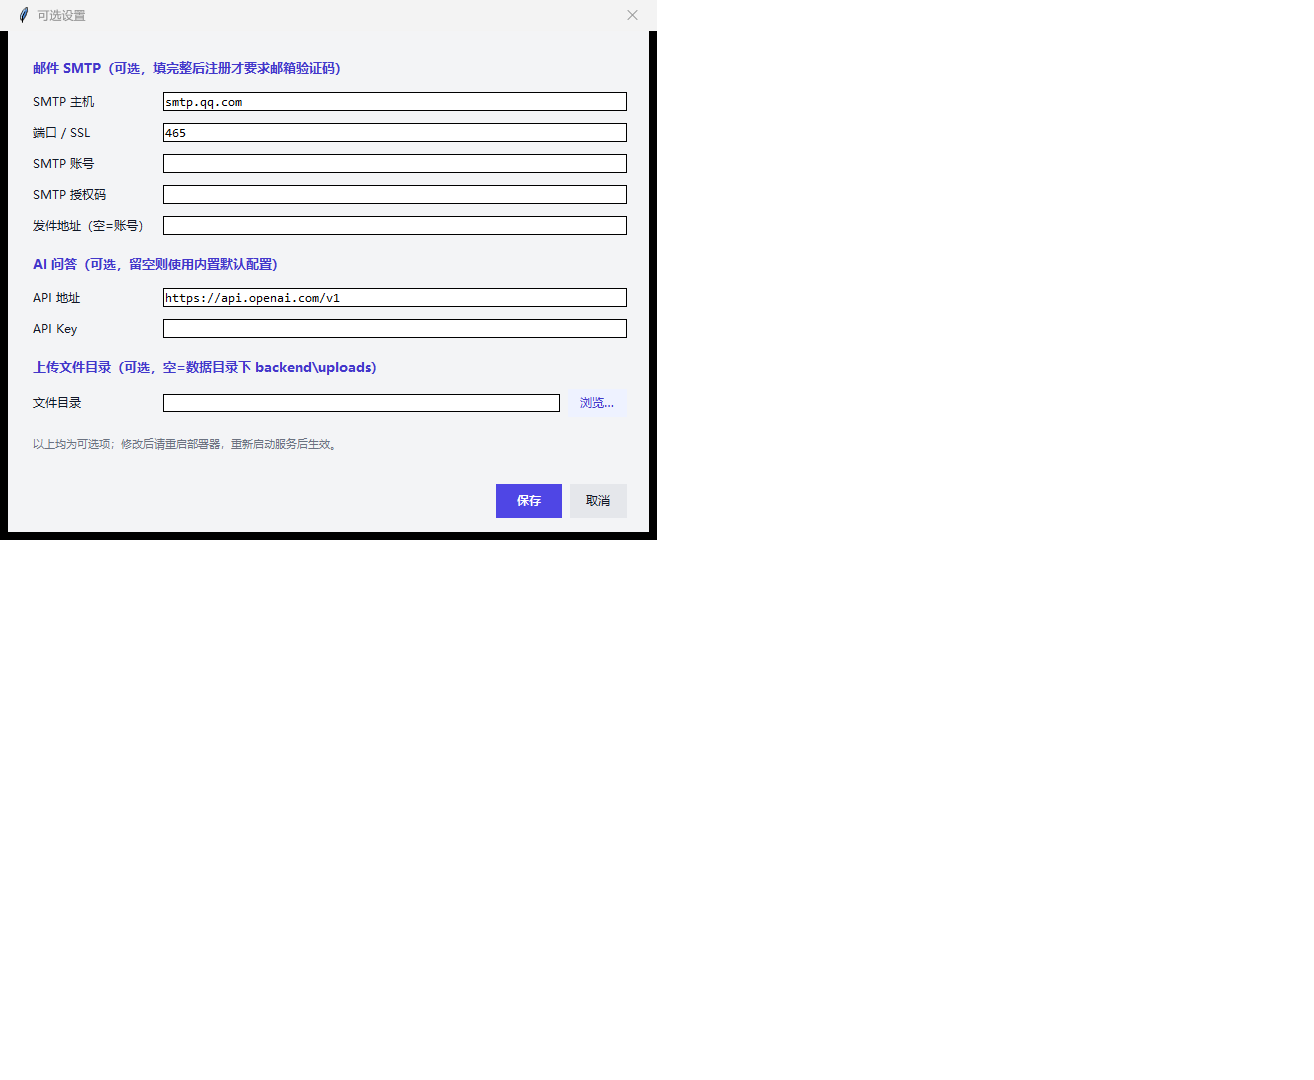
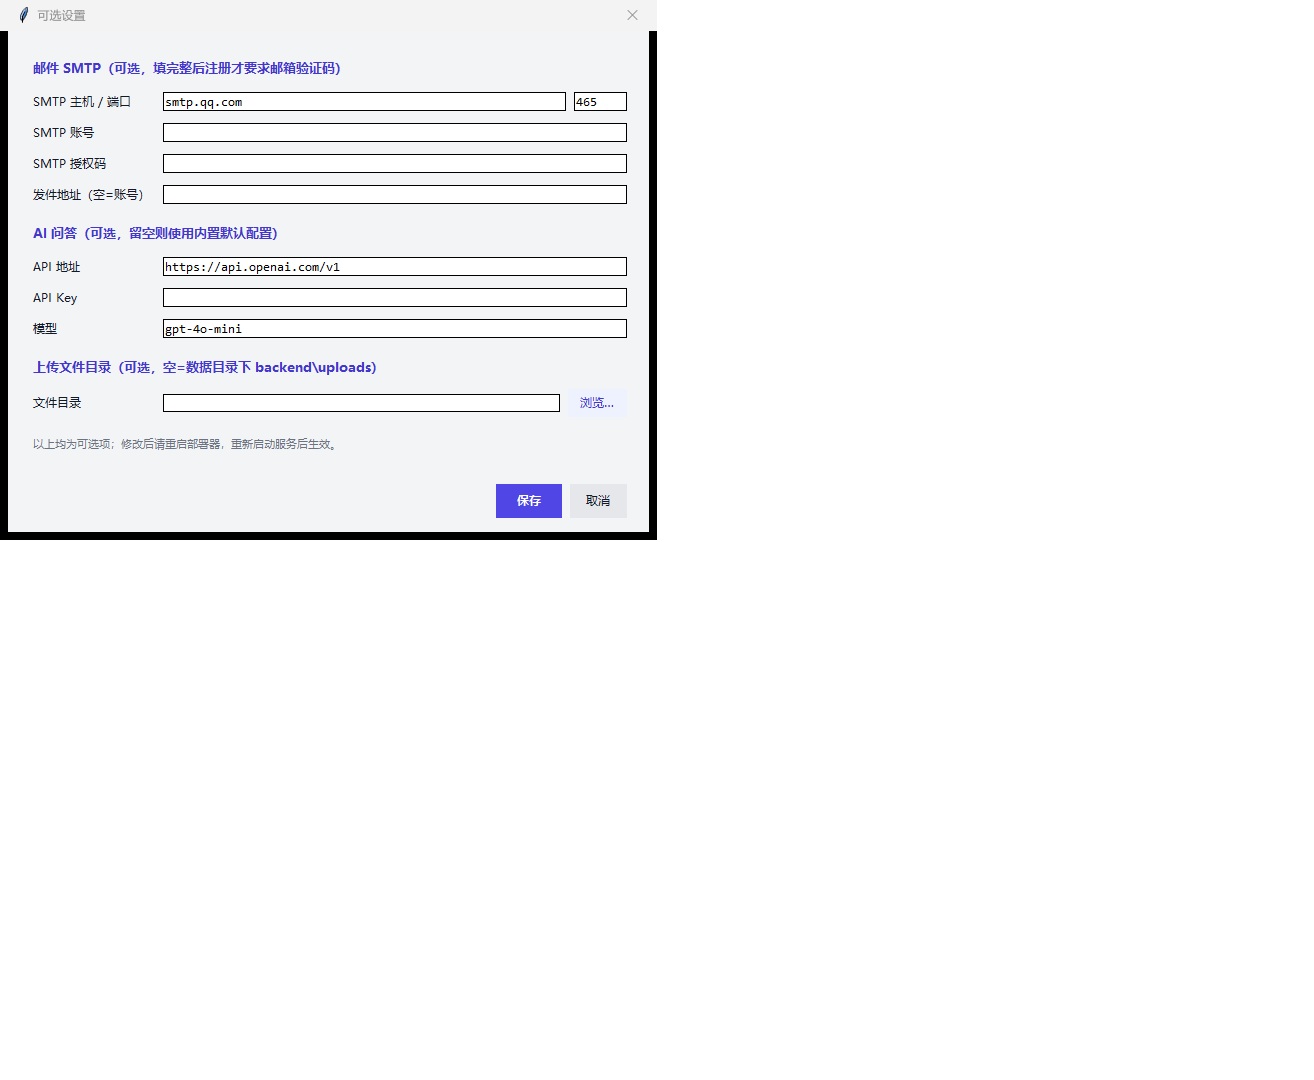
feat(deployer): AI 模型可配置，补充 DeepSeek Flash 文档
- Windows 部署器设置新增「模型」字段，写入 AI_MODEL
- SMTP 主机/端口合并一行，设置窗口仍适配 1080p
- README 增加 DeepSeek Flash：API 地址、模型名、超时说明
- 部署器版本 2.1.17

Changed region(s): [[0.0312, 0.0917, 0.2496, 0.3056]]

diff --git a/deployer/windows/win_deployer.py b/deployer/windows/win_deployer.py
@@ -16,7 +16,7 @@
     ChemLearnWindows.exe --reset            重新部署（清空用户数据，恢复内置题库）
     ChemLearnWindows.exe --console          纯命令行模式（排障用，窗口里能看到日志）
 """
-VERSION = "2.1.16"
+VERSION = "2.1.17"
 APP_NAME = "化学学习系统"
 DATA_FOLDER = "ChemLearnWindows"
 PAYLOAD_NAME = "payload_chem.tar.gz"
@@ -207,6 +207,7 @@ def apply_saved_settings():
         "SMTP_DEBUG": "false",
         "AI_API_BASE": (settings.get("ai_api_base") or "").strip(),
         "AI_API_KEY": (settings.get("ai_api_key") or "").strip(),
+        "AI_MODEL": (settings.get("ai_model") or "").strip(),
     }
 
     upload_dir = (settings.get("upload_dir") or "").strip()
@@ -972,15 +973,26 @@ class DeployerApp:
             return var
 
         heading("邮件 SMTP（可选，填完整后注册才要求邮箱验证码）", 0)
-        smtp_host = field("SMTP 主机", "smtp_host", "smtp.qq.com", row=1)
-        smtp_port = field("端口 / SSL", "smtp_port", "465", row=2)
-        smtp_user = field("SMTP 账号", "smtp_user", row=3)
-        smtp_password = field("SMTP 授权码", "smtp_password", show="*", row=4)
-        smtp_from = field("发件地址（空=账号）", "smtp_from", row=5)
+        tk.Label(body, text="SMTP 主机 / 端口", bg=BG, fg=TEXT,
+                 font=("Microsoft YaHei UI", 9)).grid(
+            row=1, column=0, sticky="w", padx=(0, px(10)), pady=px(4))
+        smtp_box = tk.Frame(body, bg=BG)
+        smtp_box.grid(row=1, column=1, sticky="we", pady=px(4))
+        smtp_box.columnconfigure(0, weight=1)
+        smtp_host = tk.StringVar(value=str(settings.get("smtp_host", "smtp.qq.com") or ""))
+        tk.Entry(smtp_box, textvariable=smtp_host, font=("Consolas", 10),
+                 bd=1, relief="solid").grid(row=0, column=0, sticky="we")
+        smtp_port = tk.StringVar(value=str(settings.get("smtp_port", "465") or "465"))
+        tk.Entry(smtp_box, textvariable=smtp_port, font=("Consolas", 10),
+                 bd=1, relief="solid", width=7).grid(row=0, column=1, padx=(px(8), 0))
+        smtp_user = field("SMTP 账号", "smtp_user", row=2)
+        smtp_password = field("SMTP 授权码", "smtp_password", show="*", row=3)
+        smtp_from = field("发件地址（空=账号）", "smtp_from", row=4)
 
-        heading("AI 问答（可选，留空则使用内置默认配置）", 6)
-        ai_base = field("API 地址", "ai_api_base", "https://api.openai.com/v1", row=7)
-        ai_key = field("API Key", "ai_api_key", show="*", row=8)
+        heading("AI 问答（可选，留空则使用内置默认配置）", 5)
+        ai_base = field("API 地址", "ai_api_base", "https://api.openai.com/v1", row=6)
+        ai_key = field("API Key", "ai_api_key", show="*", row=7)
+        ai_model = field("模型", "ai_model", "gpt-4o-mini", row=8)
 
         heading("上传文件目录（可选，空=数据目录下 backend\\uploads）", 9)
         tk.Label(body, text="文件目录", bg=BG, fg=TEXT,
@@ -1020,6 +1032,7 @@ class DeployerApp:
                 "smtp_from": smtp_from.get().strip(),
                 "ai_api_base": ai_base.get().strip(),
                 "ai_api_key": ai_key.get().strip(),
+                "ai_model": ai_model.get().strip(),
                 "upload_dir": upload_var.get().strip(),
             }
             save_deployer_settings(data)

diff --git a/README.md b/README.md
@@ -34,7 +34,7 @@
 | 文件 | 平台 | 说明 |
 |---|---|---|
 | [ChemLearn-Deployer-v1.3.0.exe](https://github.com/houshibo0101/chemlearn/releases/tag/v1.3.0) | Linux 服务器 | 填 IP、SSH 密码和 AI Key，自动装好 nginx / Python / systemd，3–6 分钟完成 |
-| [ChemLearnWindows-v2.1.16.exe](https://github.com/houshibo0101/chemlearn/releases/tag/windows-v2.1.16) | Windows 本机 | 双击部署到本机，界面里看地址 / 开系统 / 重置，局域网可访问 |
+| [ChemLearnWindows-v2.1.17.exe](https://github.com/houshibo0101/chemlearn/releases/tag/windows-v2.1.17) | Windows 本机 | 双击部署到本机，界面里看地址 / 开系统 / 重置，局域网可访问 |
 | [题库数据包 453 题](https://github.com/houshibo0101/chemlearn/releases/tag/question-bank-v1) | 通用 | 解压到 `backend/import_data/` 后跑导入脚本 |
 
 > Linux 部署器内置完整部署包（源码 + 前端 + 依赖清单），目标机只需能联网的 Ubuntu / Debian。
@@ -174,6 +174,21 @@ REQUIRE_EMAIL_VERIFICATION=true
 QQ 邮箱用 465 端口 + SSL，密码填邮箱设置里的「授权码」而不是登录密码。
 SMTP 未配置时，注册页点发送验证码会提示「邮件服务未配置」。
 本地调试可设 `SMTP_DEBUG=true` 直接返回验证码；生产必须保持 `false`。
+
+### 使用 DeepSeek Flash
+
+在管理员「账号管理 → AI Token 消耗」里填：
+
+```text
+API 地址：https://api.deepseek.com
+模型：    deepseek-flash
+API Key： sk-...（platform.deepseek.com 创建）
+```
+
+应用调用的是 OpenAI 兼容接口 `/chat/completions`，地址不要带 `/chat/completions`。
+DeepSeek Flash 默认开启思考模式，首次响应可能较慢；如遇超时可在 `.env` 中把
+`AI_TIMEOUT` 调到 `120`。当前应用不传 `thinking` 参数，因此使用默认思考模式，
+`temperature` 会被忽略但不会报错。
 
 ### 2. 导入题库（可选）
 
